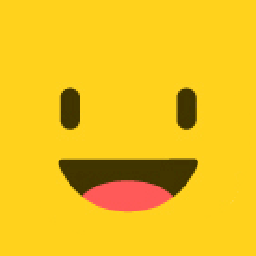
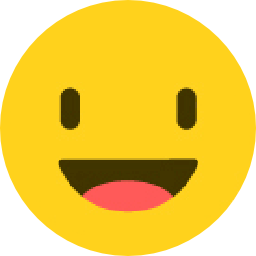
updatw 2

diff --git a/index.html b/index.html
@@ -3,7 +3,7 @@
 
 <head>
   <link rel="stylesheet" href="styles.css">
-  <title>V 2.1.5</title>
+  <title>V 2.1.7</title>
   <link rel="icon" type="image/x-icon" href="favicon.ico">
   <script src="scripts.js"></script>
   <meta charset="UTF-8">
@@ -40,7 +40,7 @@
 
 <form 
   method="POST" 
-  action="https://script.google.com/macros/s/AKfycbzgM3bZuW2OFrDI4vrm39heO4GuNCjuMndhbQdkTW0zAMfTcVySRQhJXx4lkzw3GU-Y/exec"
+  action="https://script.google.com/macros/s/AKfycbyV0RcFbRna_BgWT6NqiomR8Uvf6B-GDCMwFa1AmIrrXBnH3HKPa-Jw-sV1W-I29ZJS9g/exec"
   id="dataform"
 >
   <input id="FormDate" name="Date" type="text">

diff --git a/styles.css b/styles.css
@@ -1,12 +1,12 @@
 body {
-    background-color: rgb(242, 244, 235);
+    background-color: rgb(255, 255, 255);
   }
   
   h1 {
     color: rgb(33, 32, 32);
     text-align: center;
-    line-height: 10vh;
-    font-size: 9vh;
+    line-height: 6vh;
+    font-size: 5vh;
     font-family: Helvetica, Arial, sans-serif;
 
   }
@@ -19,9 +19,7 @@ body {
   }
 
   img{
-    height: 25vh;
-    width: 25vh;
-    border-radius: 50%;
+    height: 20vh;
   }
 
   form{
